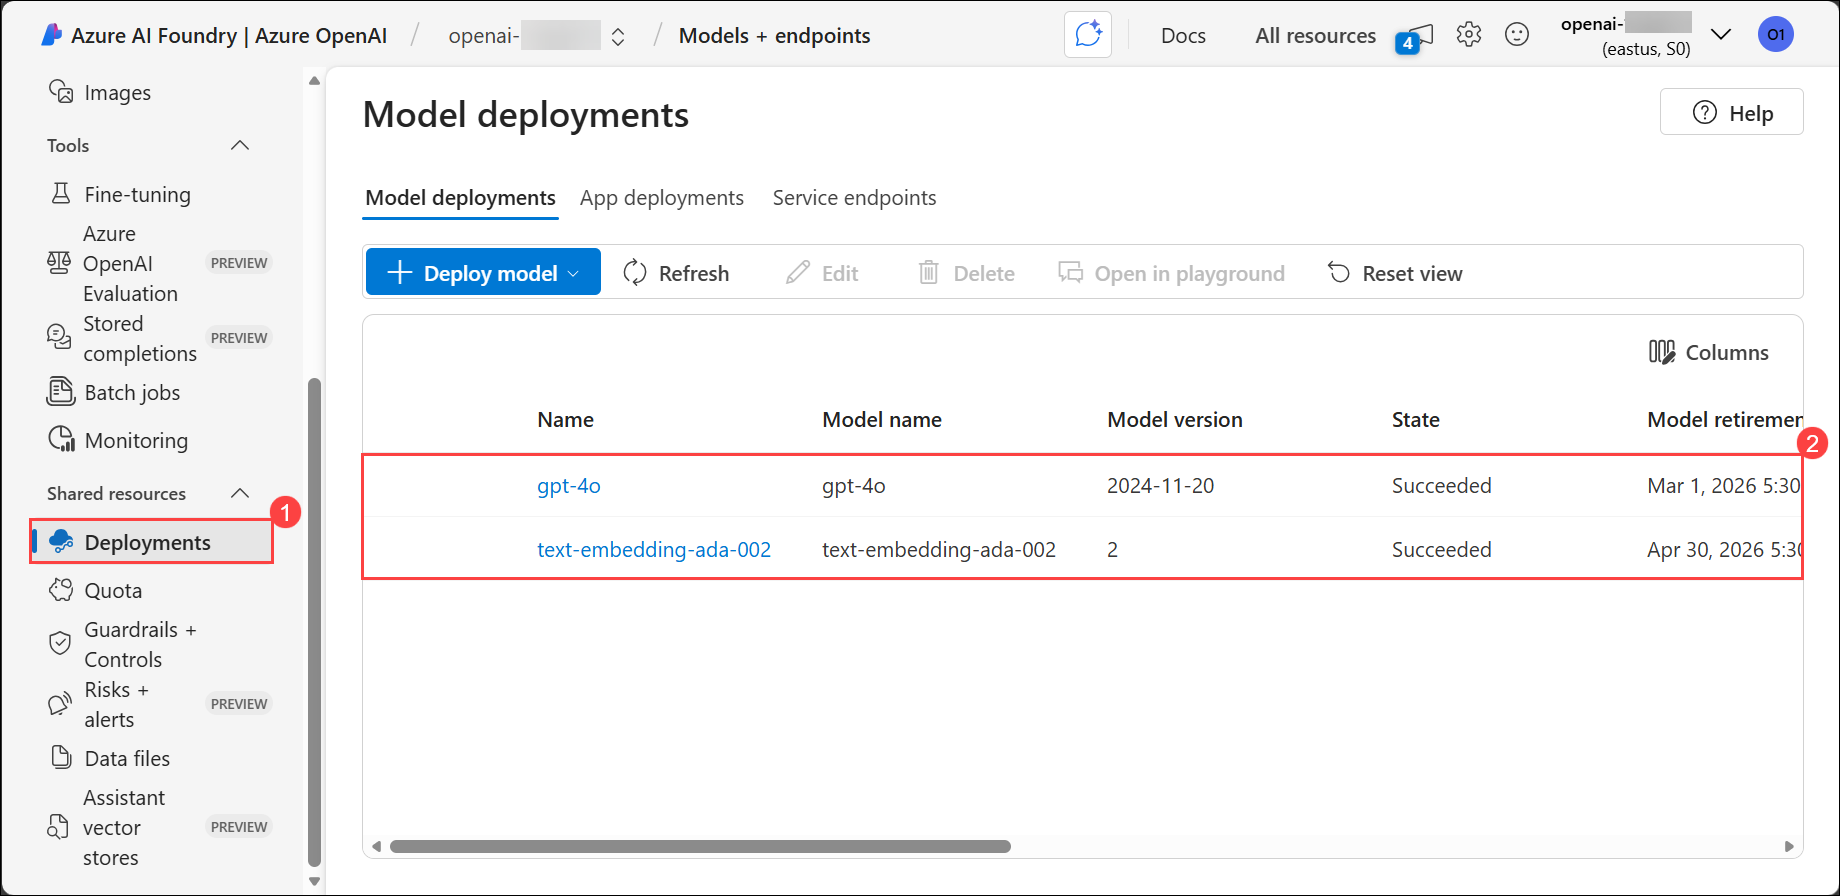
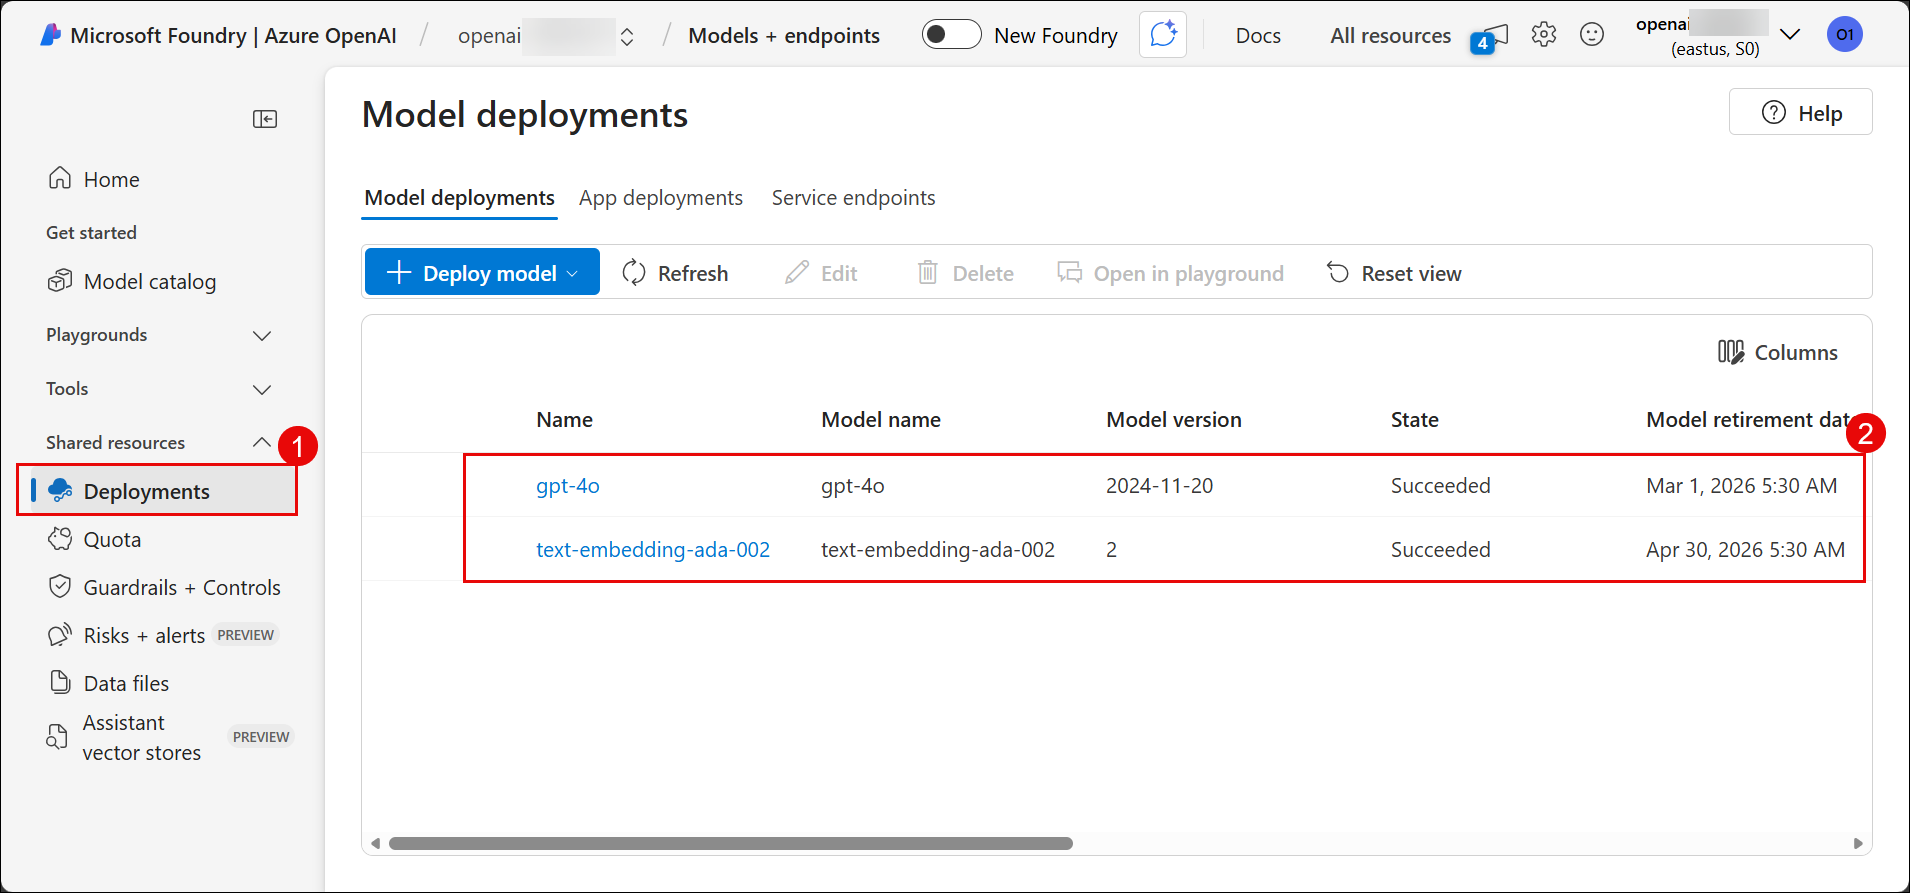
Update

diff --git a/Instructions/exercise1-split.md b/Instructions/exercise1-split.md
@@ -42,11 +42,11 @@ In this task, you will connect Blob Storage as a data source in Azure AI Studio'
 
    ![](../media/21052025(3).png)
 
-1. On the Azure OpenAI page, click on **Explore Azure AI Foundry portal** to navigate to AI Foundry, where you will be ingesting your data.
+1. On the Azure OpenAI page, click on **Explore Foundry portal** to navigate to AI Foundry, where you will be ingesting your data.
 
    ![](../media/16062025(1).png)
 
-1. Once you're inside **Azure AI Foundry**, go to the **Shared resources** section and click on **Deployments (1)** to view the deployed models under **Model Deployments (2)**.
+1. Once you're inside **Microsoft Foundry**, go to the **Shared resources** section and click on **Deployments (1)** to view the deployed models under **Model Deployments (2)**.
 
    ![](../media/21052025(5).png)
 
@@ -54,7 +54,7 @@ In this task, you will connect Blob Storage as a data source in Azure AI Studio'
 
    > **text-embedding-ada-002:** A text embedding model converts text into a numerical representation (vector), capturing the semantic meaning of the content. These embeddings allow for efficient similarity searches and can be used to compare, cluster, or retrieve relevant information from large text datasets.
 
-1. In **Azure AI Foundry**, navigate to the chat playgrounds by selecting the **Chat** option from the left-hand menu.
+1. In **Microsoft Foundry**, navigate to the chat playgrounds by selecting the **Chat** option from the left-hand menu.
 
    ![](../media/21052025(6).png)
 
@@ -100,7 +100,7 @@ In this task, you will connect Blob Storage as a data source in Azure AI Studio'
 
    ![](../media/21052025(13).png)
 
-1. Once the ingestion is complete, navigate back to the Azure portal. From the list of resources in the resource group, select **aisearch-<inject key="DeploymentID" enableCopy="false" />** AI search.
+1. Once the ingestion is complete, navigate back to the Azure portal. From the list of resources in the resource group, select **aisearch-<inject key="DeploymentID" enableCopy="false" />** search service.
 
    ![](../media/21052025(14).png)
 
@@ -112,7 +112,7 @@ In this task, you will connect Blob Storage as a data source in Azure AI Studio'
 
 1. Now the data has been ingested, and the index has been created successfully.
 
-1. Now navigate back to **Chat Playground (1)** in Azure AI Foundry Portal, try out these prompts in the **Chat panel (2)** to verify the working of Retrieval Augmented Generation (RAG).
+1. Now navigate back to **Chat Playground (1)** in Foundry Portal, try out these prompts in the **Chat panel (2)** to verify the working of Retrieval Augmented Generation (RAG).
 
    - `What happens to time when an object moves close to the speed of light?`
 
